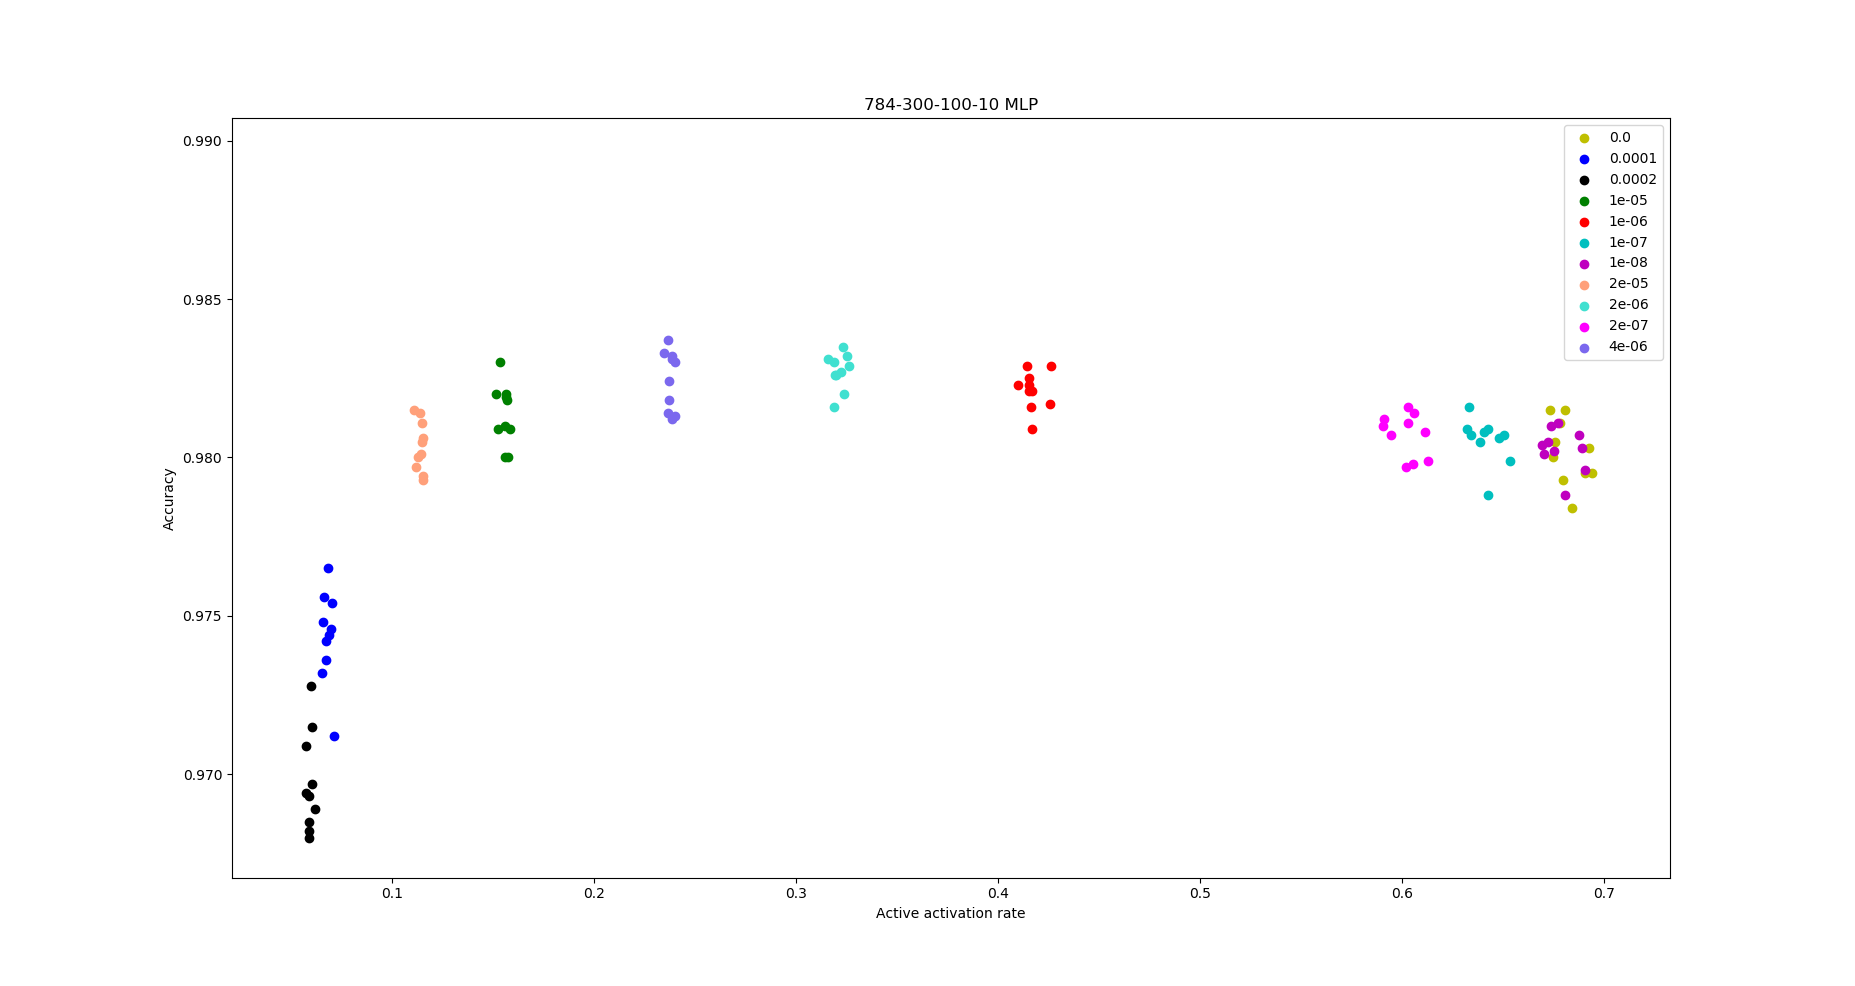
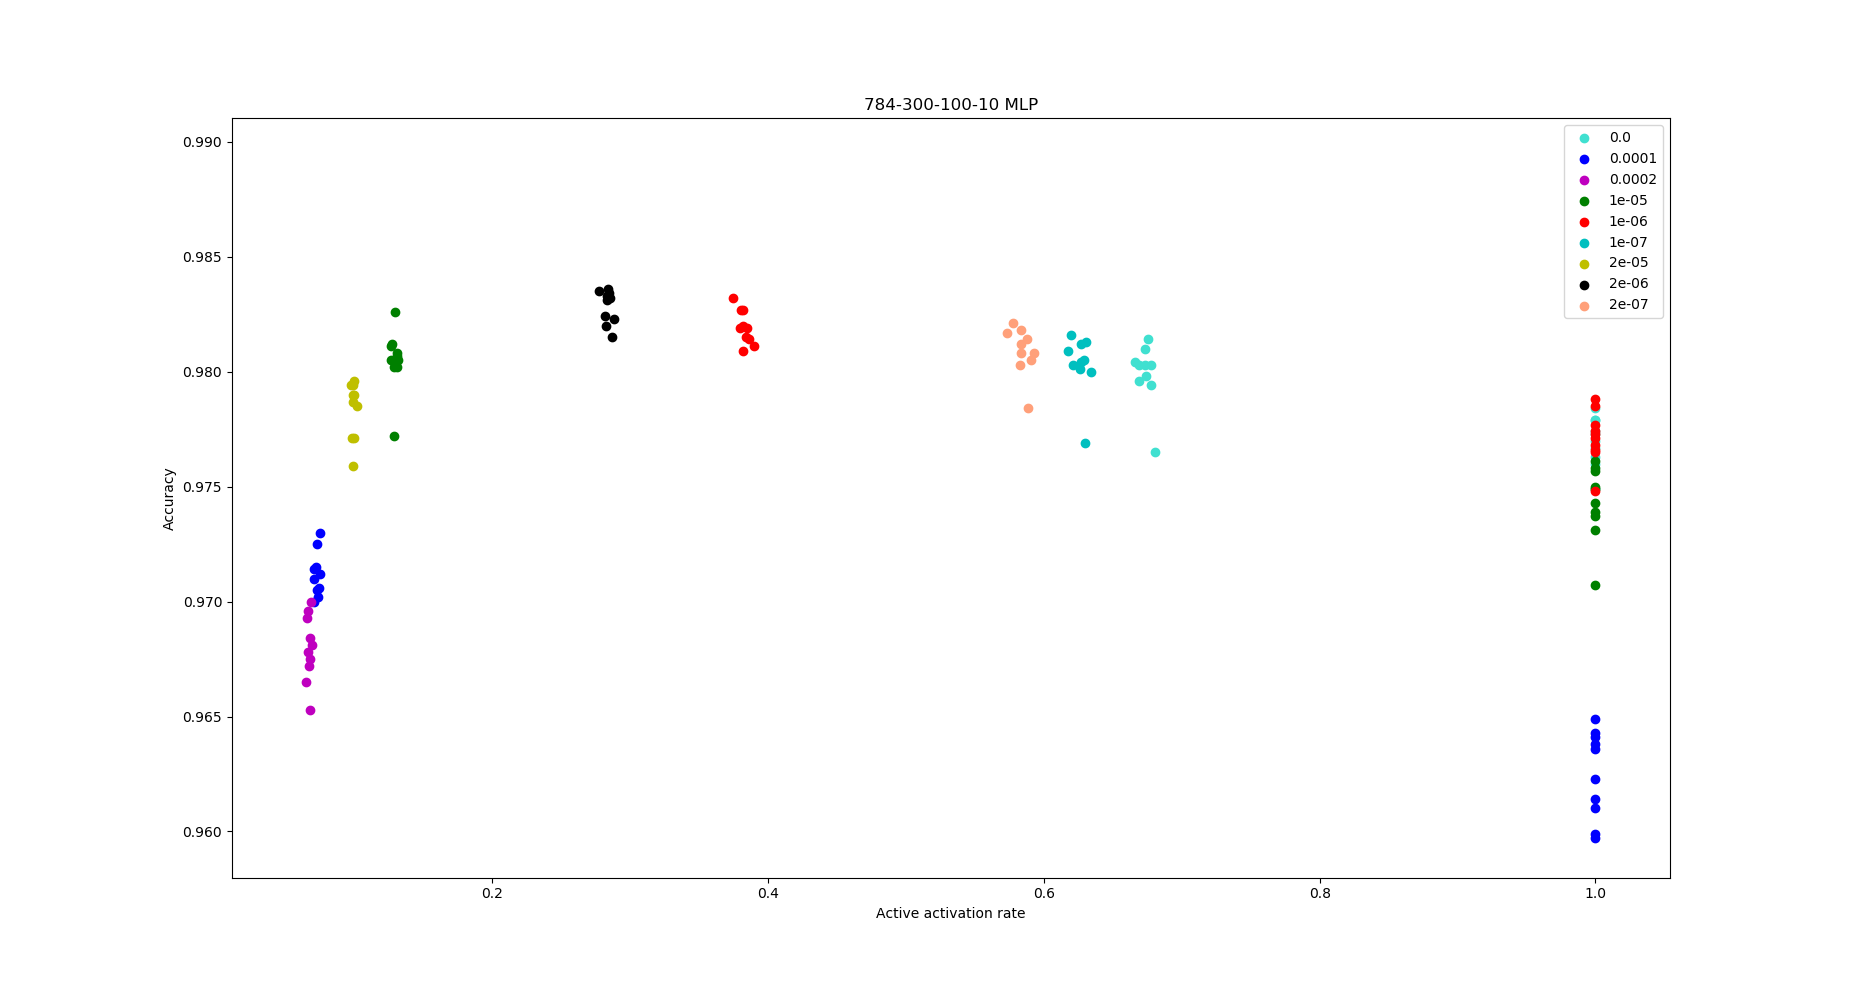
l2 experimet

diff --git a/mnist/l2_mnist.py b/mnist/l2_mnist.py
@@ -21,8 +21,8 @@ num_classes = 10
 
 # model info
 layer_size = (300,100)
-lambda1s = [ float("{}e-0{}".format(i,j)) for i in range(1,2) for j in range(4,6) ]
-lambda1s.append(0.0)
+lambda2s = [ float("{}e-0{}".format(i,j)) for i in range(1,2) for j in range(4,6) ]
+lambda2s.append(0.0)
 # hyper-parameters
 learning_rate = 0.0002
 adamb1 = 0.5
@@ -36,16 +36,16 @@ zero_dict = {}
 dead_dict = {}
 
 time_stamp = datetime.datetime.fromtimestamp(time.time()).strftime('%Y-%m-%d %H:%M:%S')
-with open('./{}-{}-nonorm_result.txt'.format(layer_size[0], layer_size[1]), "w") as f:
+with open('./{}-{}_result.txt'.format(layer_size[0], layer_size[1]), "w") as f:
     f.write("{}-{}-{}\n".format(layer_size[0], layer_size[1], num_classes))
-    for lambda1 in lambda1s:
+    for lambda2 in lambda2s:
         losses = [] # the last test loss list
         accuracies = [] # the last test accuracy list
         zero_acts = [] # the number of zero activations (3 dimension each)
         dead_acts = [] # totally dead activations (3 dimension each)
         # hyper parameters for the path name
         hparams = {}
-        hparams['l1'] = lambda1
+        hparams['l2'] = lambda2
         # hparams['size'] = "{}-{}".format(layer_size[0], layer_size[1])
         hparams['op'] = 'Adam_b1-{}_b2-{}'.format(adamb1, adamb2)
         hparams['lr'] = learning_rate
@@ -55,13 +55,12 @@ with open('./{}-{}-nonorm_result.txt'.format(layer_size[0], layer_size[1]), "w")
             seed(manual_seed*111)
             set_random_seed(manual_seed*111)
             # PATH setting and create
-            PATH = './logs/{}-{}-l1-nonorm/'.format(layer_size[0], layer_size[1])
+            PATH = './logs/{}-{}-l2/'.format(layer_size[0], layer_size[1])
             if not os.path.exists(PATH):
                 os.mkdir(PATH)
             PATH = add_hparams_to_path(PATH, hparams, manual_seed, time_stamp)
             if not os.path.exists(PATH):
-                os.mkdir(PATH)            # print(x_train.shape[0], 'train samples')
-            # print(x_test.shape[0], 'test samples')
+                os.mkdir(PATH)
                 print("Directory " , PATH ,  " Created ")
 
             # the data, split between train and test sets
@@ -81,10 +80,10 @@ with open('./{}-{}-nonorm_result.txt'.format(layer_size[0], layer_size[1]), "w")
             model = Sequential()
             model.add(Dense(layer_size[0], input_shape=(784,),
                             activation='relu',
-                            activity_regularizer=keras.regularizers.l1(lambda1)))
+                            activity_regularizer=keras.regularizers.l2(lambda2)))
             model.add(Dense(layer_size[1],
                             activation='relu',
-                            activity_regularizer=keras.regularizers.l1(lambda1)))
+                            activity_regularizer=keras.regularizers.l2(lambda2)))
             model.add(Dense(num_classes,
                             activation='softmax'))
 
@@ -94,7 +93,9 @@ with open('./{}-{}-nonorm_result.txt'.format(layer_size[0], layer_size[1]), "w")
                           optimizer=Adam(lr=learning_rate, beta_1=adamb1, beta_2=adamb2, epsilon=None, decay=0.0, amsgrad=False),
                           metrics=['accuracy'])
 
-            checkpoint_path = "checkpoints/{}-{}-l1-nonorm/".format(layer_size[0], layer_size[1])
+            checkpoint_path = "checkpoints/{}-{}-l2/".format(layer_size[0], layer_size[1])
+            if not os.path.exists(checkpoint_path):
+                os.mkdir(checkpoint_path)
             checkpoint_path = add_hparams_to_path(checkpoint_path, hparams, manual_seed, time_stamp)
             checkpoint_path += ".ckpt"
             # Create checkpoint and TensorBoard saving callbacks
@@ -127,17 +128,17 @@ with open('./{}-{}-nonorm_result.txt'.format(layer_size[0], layer_size[1]), "w")
             activations_list = []
 
             imodel1 = Sequential()
-            imodel1.add(Dense(layer_size[0], activation='relu', weights=model.layers[0].get_weights() , input_shape=(784,), activity_regularizer=keras.regularizers.l1(lambda1)))
+            imodel1.add(Dense(layer_size[0], activation='relu', weights=model.layers[0].get_weights() , input_shape=(784,), activity_regularizer=keras.regularizers.l2(lambda2)))
             activations_list.append(imodel1.predict(x_test, batch_size=batch_size, verbose=0, steps=None))
 
             imodel2 = Sequential()
-            imodel2.add(Dense(layer_size[0], activation='relu', weights=model.layers[0].get_weights() , input_shape=(784,), activity_regularizer=keras.regularizers.l1(lambda1)))
-            imodel2.add(Dense(layer_size[1], activation='relu', weights=model.layers[1].get_weights() , activity_regularizer=keras.regularizers.l1(lambda1)))
+            imodel2.add(Dense(layer_size[0], activation='relu', weights=model.layers[0].get_weights() , input_shape=(784,), activity_regularizer=keras.regularizers.l2(lambda2)))
+            imodel2.add(Dense(layer_size[1], activation='relu', weights=model.layers[1].get_weights() , activity_regularizer=keras.regularizers.l2(lambda2)))
             activations_list.append(imodel2.predict(x_test, batch_size=batch_size, verbose=0, steps=None))
 
             imodel3 = Sequential()
-            imodel3.add(Dense(layer_size[0], activation='relu', weights=model.layers[0].get_weights() , input_shape=(784,), activity_regularizer=keras.regularizers.l1(lambda1)))
-            imodel3.add(Dense(layer_size[1], activation='relu', weights=model.layers[1].get_weights() , activity_regularizer=keras.regularizers.l1(lambda1)))
+            imodel3.add(Dense(layer_size[0], activation='relu', weights=model.layers[0].get_weights() , input_shape=(784,), activity_regularizer=keras.regularizers.l2(lambda2)))
+            imodel3.add(Dense(layer_size[1], activation='relu', weights=model.layers[1].get_weights() , activity_regularizer=keras.regularizers.l2(lambda2)))
             imodel3.add(Dense(num_classes, activation='softmax', weights=model.layers[2].get_weights()))
             activations_list.append(imodel3.predict(x_test, batch_size=batch_size, verbose=0, steps=None))
 
@@ -152,7 +153,7 @@ with open('./{}-{}-nonorm_result.txt'.format(layer_size[0], layer_size[1]), "w")
                     sum(sum(activations_list[2]==0)==len(x_test))))
 
             zero_act = [ sum(sum(activations_list[i]==0))/len(x_test) for i in range(3) ] # the average number of 0s in activations from each layer
-            f.write("{} {:.4f} {:.2f}-{:.2f}-{:.2f}\n".format(lambda1, score[1], *zero_act))
+            f.write("{} {:.4f} {:.2f}-{:.2f}-{:.2f}\n".format(lambda2, score[1], *zero_act))
             losses.append(score[0])
             accuracies.append(score[1])
             zero_acts.append(zero_act)
@@ -171,10 +172,10 @@ with open('./{}-{}-nonorm_result.txt'.format(layer_size[0], layer_size[1]), "w")
         print("# Zero activation: {:.2f}-{:.2f}-{:.2f}".format(*mean_zero))
         print("# Dead activation: {:.2f}-{:.2f}-{:.2f}\n".format(*mean_dead))
 
-        loss_dict[lambda1] = mean_loss
-        acc_dict[lambda1] = mean_acc
-        zero_dict[lambda1] = mean_zero
-        dead_dict[lambda1] = mean_dead
+        loss_dict[lambda2] = mean_loss
+        acc_dict[lambda2] = mean_acc
+        zero_dict[lambda2] = mean_zero
+        dead_dict[lambda2] = mean_dead
 
     print(str(loss_dict))
     print(str(acc_dict))

diff --git a/mnist/l1_leaky_mnist.py b/mnist/l1_leaky_mnist.py
@@ -4,7 +4,7 @@ import numpy as np
 import keras
 from keras.datasets import mnist
 from keras.models import Sequential
-from keras.layers import Dense
+from keras.layers import Dense, LeakyReLU
 from keras.optimizers import Adam
 from numpy.random import seed
 from tensorflow import set_random_seed
@@ -21,7 +21,7 @@ num_classes = 10
 
 # model info
 layer_size = (300,100)
-lambda1s = [ float("{}e-0{}".format(i,j)) for i in range(1,2) for j in range(4,6) ]
+lambda1s = [ float("{}e-0{}".format(i,j)) for i in range(1,2) for j in range(4,7) ]
 lambda1s.append(0.0)
 # hyper-parameters
 learning_rate = 0.0002
@@ -36,7 +36,7 @@ zero_dict = {}
 dead_dict = {}
 
 time_stamp = datetime.datetime.fromtimestamp(time.time()).strftime('%Y-%m-%d %H:%M:%S')
-with open('./{}-{}-nonorm_result.txt'.format(layer_size[0], layer_size[1]), "w") as f:
+with open('./{}-{}-l1-leaky_result.txt'.format(layer_size[0], layer_size[1]), "w") as f:
     f.write("{}-{}-{}\n".format(layer_size[0], layer_size[1], num_classes))
     for lambda1 in lambda1s:
         losses = [] # the last test loss list
@@ -55,7 +55,7 @@ with open('./{}-{}-nonorm_result.txt'.format(layer_size[0], layer_size[1]), "w")
             seed(manual_seed*111)
             set_random_seed(manual_seed*111)
             # PATH setting and create
-            PATH = './logs/{}-{}-l1-nonorm/'.format(layer_size[0], layer_size[1])
+            PATH = './logs/{}-{}-l1-leaky/'.format(layer_size[0], layer_size[1])
             if not os.path.exists(PATH):
                 os.mkdir(PATH)
             PATH = add_hparams_to_path(PATH, hparams, manual_seed, time_stamp)
@@ -80,11 +80,11 @@ with open('./{}-{}-nonorm_result.txt'.format(layer_size[0], layer_size[1]), "w")
 
             model = Sequential()
             model.add(Dense(layer_size[0], input_shape=(784,),
-                            activation='relu',
                             activity_regularizer=keras.regularizers.l1(lambda1)))
+            model.add(LeakyReLU())
             model.add(Dense(layer_size[1],
-                            activation='relu',
                             activity_regularizer=keras.regularizers.l1(lambda1)))
+            model.add(LeakyReLU())
             model.add(Dense(num_classes,
                             activation='softmax'))
 
@@ -94,7 +94,9 @@ with open('./{}-{}-nonorm_result.txt'.format(layer_size[0], layer_size[1]), "w")
                           optimizer=Adam(lr=learning_rate, beta_1=adamb1, beta_2=adamb2, epsilon=None, decay=0.0, amsgrad=False),
                           metrics=['accuracy'])
 
-            checkpoint_path = "checkpoints/{}-{}-l1-nonorm/".format(layer_size[0], layer_size[1])
+            checkpoint_path = "checkpoints/{}-{}-l1-leaky/".format(layer_size[0], layer_size[1])
+            if not os.path.exists(checkpoint_path):
+                os.mkdir(checkpoint_path)
             checkpoint_path = add_hparams_to_path(checkpoint_path, hparams, manual_seed, time_stamp)
             checkpoint_path += ".ckpt"
             # Create checkpoint and TensorBoard saving callbacks
@@ -127,18 +129,23 @@ with open('./{}-{}-nonorm_result.txt'.format(layer_size[0], layer_size[1]), "w")
             activations_list = []
 
             imodel1 = Sequential()
-            imodel1.add(Dense(layer_size[0], activation='relu', weights=model.layers[0].get_weights() , input_shape=(784,), activity_regularizer=keras.regularizers.l1(lambda1)))
+            imodel1.add(Dense(layer_size[0], weights=model.layers[0].get_weights() , input_shape=(784,), activity_regularizer=keras.regularizers.l1(lambda1)))
+            model.add(LeakyReLU())
             activations_list.append(imodel1.predict(x_test, batch_size=batch_size, verbose=0, steps=None))
 
             imodel2 = Sequential()
-            imodel2.add(Dense(layer_size[0], activation='relu', weights=model.layers[0].get_weights() , input_shape=(784,), activity_regularizer=keras.regularizers.l1(lambda1)))
-            imodel2.add(Dense(layer_size[1], activation='relu', weights=model.layers[1].get_weights() , activity_regularizer=keras.regularizers.l1(lambda1)))
+            imodel2.add(Dense(layer_size[0], weights=model.layers[0].get_weights() , input_shape=(784,), activity_regularizer=keras.regularizers.l1(lambda1)))
+            model.add(LeakyReLU())
+            imodel2.add(Dense(layer_size[1], weights=model.layers[2].get_weights() , activity_regularizer=keras.regularizers.l1(lambda1)))
+            model.add(LeakyReLU())
             activations_list.append(imodel2.predict(x_test, batch_size=batch_size, verbose=0, steps=None))
 
             imodel3 = Sequential()
-            imodel3.add(Dense(layer_size[0], activation='relu', weights=model.layers[0].get_weights() , input_shape=(784,), activity_regularizer=keras.regularizers.l1(lambda1)))
-            imodel3.add(Dense(layer_size[1], activation='relu', weights=model.layers[1].get_weights() , activity_regularizer=keras.regularizers.l1(lambda1)))
-            imodel3.add(Dense(num_classes, activation='softmax', weights=model.layers[2].get_weights()))
+            imodel3.add(Dense(layer_size[0], weights=model.layers[0].get_weights() , input_shape=(784,), activity_regularizer=keras.regularizers.l1(lambda1)))
+            model.add(LeakyReLU())
+            imodel3.add(Dense(layer_size[1], weights=model.layers[2].get_weights() , activity_regularizer=keras.regularizers.l1(lambda1)))
+            model.add(LeakyReLU())
+            imodel3.add(Dense(num_classes, activation='softmax', weights=model.layers[4].get_weights()))
             activations_list.append(imodel3.predict(x_test, batch_size=batch_size, verbose=0, steps=None))
 
             # Print out how many 0s are in activation of each layer

diff --git a/mnist/plot_reg.py b/mnist/plot_reg.py
@@ -1,0 +1,52 @@
+import numpy as np
+import matplotlib.pyplot as plt
+import sys
+
+file_path = sys.argv[1]
+with open(file_path, "r") as file:
+    line1, *lines = [line.rstrip('\n') for line in file]
+    layer_sizes = [ int(i) for i in line1.split("-") ]
+    accuracies = []
+    zero_rates = []
+    group = []
+    color_map = {}
+    np_colors = ["b", "g", "r", "c", "m", "y", "k", \
+                 "#ffa07a",	"#40e0d0", "#7b68ee", "#ff00ff"]
+    np_colors.reverse()
+    for line in lines:
+        if len(line) == 0: pass
+        lambda1, accuracy, zero_acts = line.split()
+        group.append(lambda1)
+        if lambda1 not in color_map:
+            color_map[lambda1] = np_colors.pop()
+        accuracies.append(float(accuracy))
+        layer1, layer2, layer3 = [ float(n) for n in zero_acts.split("-") ]
+        # the number of zero activations
+        zero_rate = ( (layer_sizes[0] - layer1) + (layer_sizes[1] - layer2)) \
+                        / sum(layer_sizes[:-1])
+        zero_rates.append(zero_rate)
+
+accuracies = np.array(accuracies)
+zero_rates = np.array(zero_rates)
+group = np.array(group)
+# print(accuracies)
+# print(zero_rates)
+# print(group)
+
+# regression
+x_new = np.linspace(min(zero_rates), max(zero_rates), num=len(zero_rates)*10)
+coefs = np.polyfit(zero_rates, accuracies, 2)
+ffit = np.polyval(coefs, x_new)
+
+fig, ax = plt.subplots()
+# ax.plot(x_new, ffit)
+plt.title("784-300-100-10 MLP")
+for g in np.unique(group):
+    ix = np.where(group == g)
+    ax.scatter(zero_rates[ix], accuracies[ix], c = color_map[g], label = g)
+
+plt.xlabel("Active activation rate")
+plt.ylabel("Accuracy")
+print("The number of data: {}".format(len(zero_rates)))
+plt.legend()
+plt.show()

diff --git a/mnist/load.py b/mnist/load.py
@@ -18,11 +18,8 @@ num_classes = 10
 # the data, split between train and test sets
 (x_train, y_train), (x_test, y_test) = mnist.load_data()
 y_test = keras.utils.to_categorical(y_test, num_classes)
-# x_train = x_train.reshape(60000, 784)
 x_test = x_test.reshape(10000, 784)
-# x_train = x_train.astype('float32')
 x_test = x_test.astype('float32')
-# x_train /= 255
 x_test /= 255
 noise = np.random.normal(0., 0.01, (10000, 784))
 x_test += noise

diff --git a/mnist/plot_coef.py b/mnist/plot_coef.py
@@ -39,7 +39,7 @@ coefs = np.polyfit(zero_rates, accuracies, 2)
 ffit = np.polyval(coefs, x_new)
 
 fig, ax = plt.subplots()
-ax.plot(x_new, ffit)
+# ax.plot(x_new, ffit)
 plt.title("784-300-100-10 MLP")
 for g in np.unique(group):
     ix = np.where(group == g)
